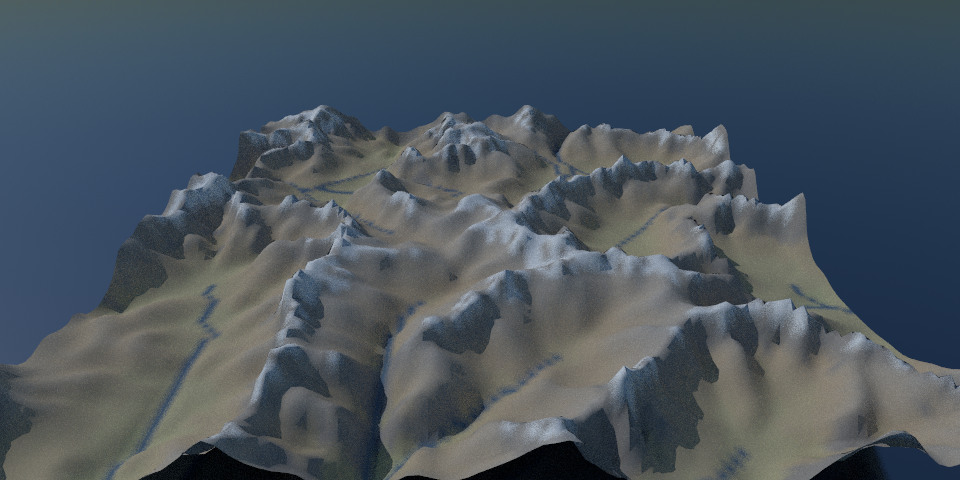
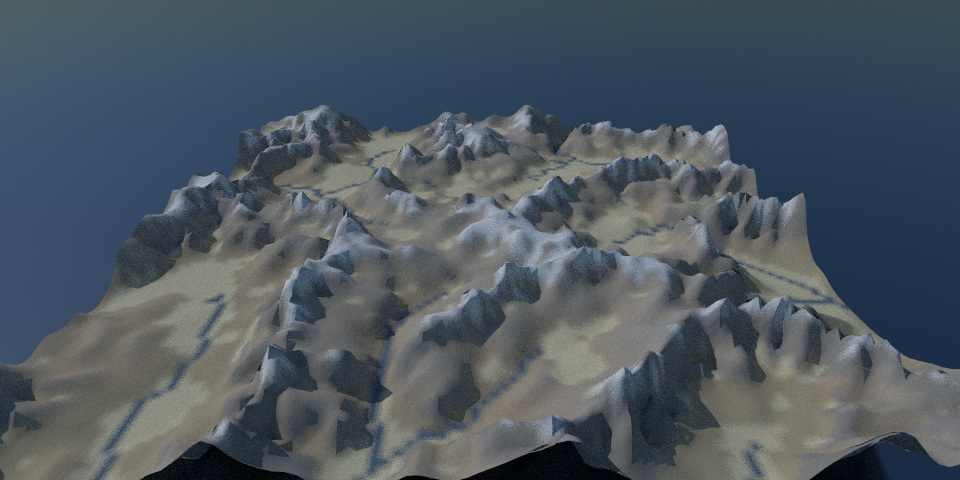
Show geology in renders and maps; add a volcanic demo scene
Lava and alluvium ground-cover classes and map colours; scene options for
deposition, strata, rock erodibilities and volcanoes; patches placed
"near": "volcanoes". Re-rendered the alpine demo with sediment and
added a volcanic one. plan.md, README and the gallery describe the new
geology, its open questions and its reading list.

Claude-Session: https://claude.ai/code/session_01U8ZZinQbGoCoSbDJ8UKF9u

diff --git a/src/terrain/object.rs b/src/terrain/object.rs
@@ -17,15 +17,20 @@
 //!
 //! - `time`: years of landscape evolution after the noise topography (default 0).
 //! - `domain`: `{"type": "patch", "cells", "spacing" (m), "lat", "lon"}`, where a patch without
-//!   `lat`/`lon` is placed on this seed's most mountainous spot; or `{"type": "planet",
+//!   `lat`/`lon` is placed on this seed's most mountainous spot (or, with `"near":
+//!   "volcanoes"`, its most volcanic mountains); or `{"type": "planet",
 //!   "cells"}`, a cubed sphere with `cells` x `cells` per face.
+//! - Ground cover: ice, rivers, sea floor, bare rock on steep slopes, alluvium (sediment over
+//!   2 m deep), lava, then a tint by elevation.
 //! - `scale`: metres per scene unit (default 1000). `exaggeration`: vertical exaggeration.
 //! - A patch is drawn in a local frame: x east, y up, z south, sea level at y = 0, centred on
 //!   the origin, ignoring the planet's curvature. A planet is drawn centred on `centre`
 //!   (default the origin), its sea level a sphere of radius `radius / scale`.
 //! - Processes: `radius` (m), `step` (years), `land_bias`, `mountain_height` (m),
-//!   `uplift_rate` (m/yr), `belt_frequency`; `fluvial`: `{k, m, n, diffusivity}`; `glacier`:
-//!   `false` to disable, or overrides of `GlacierParams` by field name.
+//!   `uplift_rate` (m/yr), `belt_frequency`; `fluvial`: `{k, m, n, diffusivity, deposition}`;
+//!   `glacier` and `volcanoes`: `false` to disable, or overrides of `GlacierParams` and
+//!   `VolcanoParams` by field name. Geology: `strata_thickness` (m), `strata_contrast`,
+//!   `fold_amplitude` (m), `sediment_erodibility`, `lava_erodibility`.
 //! - `map`: also write a shaded relief map to this PNG path.
 //!
 //! Water is not part of the terrain: add a plane at y = 0 (patch) or a sphere (planet).
@@ -47,9 +52,10 @@ use crate::shapes::mesh::vertex_normals;
 use crate::shapes::triangle::{SmoothTriangle, Triangle};
 use crate::terrain::domain::{Domain, Layout};
 use crate::terrain::glacier::{slope_squared, GlacierParams};
-use crate::terrain::map::{is_river, land_colour, write_map};
+use crate::terrain::map::{self, is_river, land_colour, write_map};
 use crate::terrain::planet::Planet;
 use crate::terrain::simulation::{Terrain, TerrainParams, ICE_FREE};
+use crate::terrain::volcano::VolcanoParams;
 use serde_json::Value;
 use std::sync::Arc;
 
@@ -131,7 +137,9 @@ const ICE: u8 = 0;
 const RIVER: u8 = 1;
 const SEA_FLOOR: u8 = 2;
 const ROCK: u8 = 3;
-const BAND0: u8 = 4;
+const LAVA: u8 = 4;
+const ALLUVIUM: u8 = 5;
+const BAND0: u8 = 6;
 const BAND_HEIGHT: f64 = 250.;
 const BANDS: usize = 20;
 /// Slope (rise over run) above which no soil holds and bare rock shows.
@@ -145,6 +153,8 @@ impl TerrainMedium {
             else if t.bed[i] < 0. { SEA_FLOOR }
             else if is_river(&t, i) { RIVER }
             else if slope2[i] > ROCK_SLOPE * ROCK_SLOPE { ROCK }
+            else if t.sediment[i] > map::ALLUVIUM { ALLUVIUM }
+            else if t.lava[i] > 1. { LAVA }
             else { BAND0 + ((t.bed[i] / BAND_HEIGHT) as usize).min(BANDS - 1) as u8 }
         }).collect();
         let lambertian = |c: [f64; 3]| -> Box<dyn MaterialModel + Sync + Send> {
@@ -155,6 +165,8 @@ impl TerrainMedium {
             lambertian([0.12, 0.2, 0.3]),
             lambertian([0.35, 0.33, 0.28]),
             lambertian([0.38, 0.36, 0.34]),
+            lambertian(map::LAVA_COLOUR),
+            lambertian(map::ALLUVIUM_COLOUR),
         ];
         for b in 0..BANDS { materials.push(lambertian(land_colour((b as f64 + 0.5) * BAND_HEIGHT))); }
         let jitter = t.domain.min_spacing() / place.scale;
@@ -206,6 +218,28 @@ pub fn terrain_params(o: &Value) -> TerrainParams {
     p.fluvial.m = number(f, "m", p.fluvial.m);
     p.fluvial.n = number(f, "n", p.fluvial.n);
     p.fluvial.diffusivity = number(f, "diffusivity", p.fluvial.diffusivity);
+    p.fluvial.deposition = number(f, "deposition", p.fluvial.deposition);
+    p.planet.strata_thickness = number(o, "strata_thickness", p.planet.strata_thickness);
+    p.planet.strata_contrast = number(o, "strata_contrast", p.planet.strata_contrast);
+    p.planet.fold_amplitude = number(o, "fold_amplitude", p.planet.fold_amplitude);
+    p.sediment_erodibility = number(o, "sediment_erodibility", p.sediment_erodibility);
+    p.lava_erodibility = number(o, "lava_erodibility", p.lava_erodibility);
+    p.volcano = match &o["volcanoes"] {
+        Value::Bool(false) => None,
+        v => {
+            let mut x = VolcanoParams::default();
+            let fields: [(&str, &mut f64); 9] = [
+                ("spacing", &mut x.spacing), ("density", &mut x.density), ("horizon", &mut x.horizon),
+                ("duration", &mut x.duration), ("rate", &mut x.rate), ("cone_radius", &mut x.cone_radius),
+                ("lava_fraction", &mut x.lava_fraction), ("flow_thickness", &mut x.flow_thickness),
+                ("roughness", &mut x.roughness),
+            ];
+            for (k, f) in fields {
+                if let Some(n) = v.get(k).and_then(|n| n.as_f64()) { *f = n; }
+            }
+            Some(x)
+        }
+    };
     p.glacier = match &o["glacier"] {
         Value::Bool(false) => None,
         Value::Object(_) => Some(glacier_params(&o["glacier"])),
@@ -220,9 +254,12 @@ pub fn domain(o: &Value, params: &TerrainParams) -> Domain {
     match d["type"].as_str().unwrap_or("patch") {
         "planet" => Domain::sphere(SceneFile::parse_int(&d["cells"], 64), radius),
         "patch" => {
-            let (lat, lon) = match (d["lat"].as_f64(), d["lon"].as_f64()) {
-                (Some(lat), Some(lon)) => (lat, lon),
-                _ => Planet::new(params.planet.clone()).most_mountainous(20000),
+            let planet = || Planet::new(params.planet.clone());
+            let (lat, lon) = match (d["lat"].as_f64(), d["lon"].as_f64(), d["near"].as_str()) {
+                (Some(lat), Some(lon), _) => (lat, lon),
+                (_, _, Some("volcanoes")) => planet().most_volcanic(20000),
+                (_, _, None | Some("mountains")) => planet().most_mountainous(20000),
+                (_, _, Some(x)) => panic!("Unknown terrain domain \"near\": {}", x),
             };
             Domain::patch(lat, lon, SceneFile::parse_int(&d["cells"], 128), number(d, "spacing", 400.), radius)
         }

diff --git a/src/terrain/map.rs b/src/terrain/map.rs
@@ -22,6 +22,11 @@ fn mix(a: [f64; 3], b: [f64; 3], t: f64) -> [f64; 3] {
     [a[0] + (b[0] - a[0]) * t, a[1] + (b[1] - a[1]) * t, a[2] + (b[2] - a[2]) * t]
 }
 
+/// Sediment thicker than this (metres) is drawn as alluvium.
+pub const ALLUVIUM: f64 = 2.;
+pub const ALLUVIUM_COLOUR: [f64; 3] = [0.80, 0.74, 0.52];
+pub const LAVA_COLOUR: [f64; 3] = [0.16, 0.14, 0.14];
+
 /// Hypsometric tint for land at `h` metres.
 pub fn land_colour(h: f64) -> [f64; 3] {
     let stops = [
@@ -47,6 +52,12 @@ fn cell_colour(t: &Terrain, i: usize) -> [f64; 3] {
     }
     if is_river(t, i) {
         return [0.20, 0.40, 0.75];
+    }
+    if t.sediment[i] > ALLUVIUM {
+        return mix(land_colour(t.bed[i]), ALLUVIUM_COLOUR, 0.6);
+    }
+    if t.lava[i] > 1. {
+        return mix(land_colour(t.bed[i]), LAVA_COLOUR, 0.7);
     }
     land_colour(t.bed[i])
 }
@@ -117,7 +128,7 @@ mod tests {
         params.planet.seed = env("SEED", 0.) as u64;
         params.step = env("STEP", 100.);
         let planet = Planet::new(params.planet.clone());
-        let (lat, lon) = planet.most_mountainous(20000);
+        let (lat, lon) = if std::env::var("VOLCANIC").is_ok() { planet.most_volcanic(20000) } else { planet.most_mountainous(20000) };
         let n = env("CELLS", 128.) as usize;
         let spacing = env("SPACING", 400.);
         println!("patch at {:.2}, {:.2}", lat, lon);
@@ -140,10 +151,19 @@ mod tests {
                         t.ice.iter().cloned().fold(0., f64::max), t.sliding.iter().cloned().fold(0., f64::max));
                 }
             }
+            if std::env::var("VERBOSE").is_ok() {
+                let k = (0..t.domain.len()).max_by(|&a, &b| t.sediment[a].total_cmp(&t.sediment[b])).unwrap();
+                println!("  deepest sediment {} ({}, {}): ground {:.0} sediment {:.0} ice {:.0} drainage {:.2e} flux {:.2e}; neighbours {:?}",
+                    k, k % n, k / n, t.bed[k], t.sediment[k], t.ice[k], t.drainage[k], t.sediment_flux[k],
+                    t.domain.edges(k).iter().map(|l| (t.bed[l.to].round(), t.sediment[l.to].round(), t.ice[l.to].round())).collect::<Vec<_>>());
+            }
             let land = t.bed.iter().filter(|&&b| b > 0.).count();
             let iced = t.ice.iter().filter(|&&h| h > ICE_FREE).count();
             let max = t.bed.iter().cloned().fold(f64::MIN, f64::max);
-            println!("  min {:.0}", t.bed.iter().cloned().fold(f64::MAX, f64::min));
+            println!("  min {:.0}; sediment > 2 m in {} cells, deepest {:.0} m; lava in {} cells, thickest {:.0} m",
+                t.bed.iter().cloned().fold(f64::MAX, f64::min),
+                t.sediment.iter().filter(|&&s| s > ALLUVIUM).count(), t.sediment.iter().cloned().fold(0., f64::max),
+                t.lava.iter().filter(|&&s| s > 1.).count(), t.lava.iter().cloned().fold(0., f64::max));
             println!("t {:>8} in {:.1?}: max {:.0} m, land {}, ice {} cells, max ice {:.0} m",
                 t.time, start.elapsed(), max, land, iced, t.ice.iter().cloned().fold(0., f64::max));
             write_map(&t, &format!("{}/patch-{:03}.png", dir, f), 512);

diff --git a/plan.md b/plan.md
@@ -462,6 +462,15 @@ processes can be animated.
   adaptive steps bounded by stiffness, speed capped at 1 km/yr) with a conservative flux
   limiter; tested against Halfar's dome and a plateau ice cap reaching steady state. Erosion
   proportional to sliding speed taken from the ice fluxes.
+- Geology (`planet.rs`, `simulation.rs`): the ground is bedrock (folded strata of alternating
+  hardness, regional variation) under volcanic rock under sediment, each with its own
+  erodibility for rivers and glaciers.
+- Sediment (`fluvial.rs`): erosion-deposition after Yuan et al. 2019 (G = 1), lakes trap
+  sediment to their spill level, glacial erosion feeds meltwater sediment into the rivers, so
+  alluvial valley floors, filled lake basins and outwash form.
+- Volcanoes (`volcano.rs`): vents from a seeded planet-wide lattice (random spacing, as de
+  Bremond d'Arcs et al. 1995 found), cones, and DOWNFLOW-style lava flows (Favalli et al.
+  2005); eruption rates after White et al. 2006.
 - Time (`simulation.rs`): operator splitting, deterministic and resumable; morphological
   acceleration (MORFAC) for glacial erosion.
 - Scene object `"type": "terrain"` (`object.rs`), maps (`map.rs`), demo
@@ -477,9 +486,12 @@ processes can be animated.
 
 ### Known limitations and open questions
 
-- Detachment-limited only: no sediment transport or deposition, so valleys and lakes never
-  fill and there are no deltas or moraines. Next candidate: Yuan et al. 2019's efficient
-  transport/deposition extension of the implicit solver (to verify).
+- Sediment leaving at the sea is lost: no deltas or marine deposits. No moraines (glacial
+  debris goes straight to the rivers), no lateral erosion by meandering, so alluvial valleys
+  widen only by deposition. The sediment-to-bedrock erodibility ratio (3) and lava's (0.3) are
+  model choices; no source found for typical values.
+- Volcanoes: no craters, calderas, explosive (tephra) deposits or lahars; cones are linear in
+  profile; vents don't respond to tectonics or to loading.
 - No isostasy (ice loading, erosional unloading), no sea-level change with the ice ages.
 - Ice: temperate everywhere; SIA is poor on steep, narrow valleys (Cordonnier et al. 2023 use
   higher-order flow); the flux limiter is cruder than Jarosch et al.'s MUSCL scheme.
@@ -533,6 +545,15 @@ processes can be animated.
   124, 1996, doi:10.1006/jcph.1996.0047.
 - Reviews: Tucker and Hancock, ESPL 35(1), 2010, doi:10.1002/esp.1952; Galin et al., "A Review
   of Digital Terrain Modeling", Computer Graphics Forum 38(2), 2019, doi:10.1111/cgf.13657.
+- Sediment: Yuan, Braun, Guerit, Rouby, Cordonnier, JGR Earth Surface 124(6), 2019,
+  doi:10.1029/2018JF004867; Davy and Lague, JGR Earth Surface 114, 2009,
+  doi:10.1029/2008JF001146; Guerit et al., Geology 47(9), 2019, doi:10.1130/G46356.1 (G values);
+  Hallet, Hunter, Bogen, Global and Planetary Change 12, 1996 (glacial sediment yields).
+- Lithology: Forte, Yanites, Whipple, ESPL 41(12), 2016, doi:10.1002/esp.3947; Perne et al.,
+  Earth Surface Dynamics 5, 2017, doi:10.5194/esurf-5-85-2017.
+- Volcanoes: Favalli, Pareschi, Neri, Isola, GRL 32(3), 2005, doi:10.1029/2004GL021718; White,
+  Crisp, Spera, G-cubed 7, 2006, doi:10.1029/2005GC001002; de Bremond d'Arcs, Jaupart, Sparks,
+  JGR 100(B10), 1995, doi:10.1029/95JB02153.
 - Unchecked: Halfar's solution as given by Bueler et al., J. Glaciology 51(173), 2005 (used by
   `test_halfar_dome`, which passing within 3% supports).
 

diff --git a/README.md b/README.md
@@ -28,9 +28,9 @@ Supports:
   - Skysphere with Rayleigh and Mie Scattering
   - Procedural Objects
     - Ocean (Tessendorf's algorithm with Phillips spectrum)
-    - Terrain evolved through time from seeded noise by tectonic uplift, river incision
-      (stream power law) and glacial erosion (shallow ice approximation), on a patch or a
-      whole planet (see `src/terrain/`)
+    - Terrain evolved through time from seeded noise by tectonic uplift, river incision and
+      deposition, glacial erosion (shallow ice approximation) and volcanism, over layered
+      geology, on a patch or a whole planet (see `src/terrain/`)
     - Random Cubes
   - Multithreaded
   - Progressive rendering

diff --git a/demo/scenes.md b/demo/scenes.md
@@ -20,6 +20,10 @@ Mountains from seeded noise after one 100,000 year glacial cycle: tectonic uplif
 incision and glacial erosion (`src/terrain/`).
 ![alpine terrain](./scenes/terrain-alpine.png)
 
+Volcanic mountains after the same cycle: a stratovolcano with lava flows, alluvial valley
+floors and filled lake basins.
+![volcanic terrain](./scenes/terrain-volcanic.png)
+
 ## Fireworks
 ![fireworks](./scenes/fireworks.png)
 
